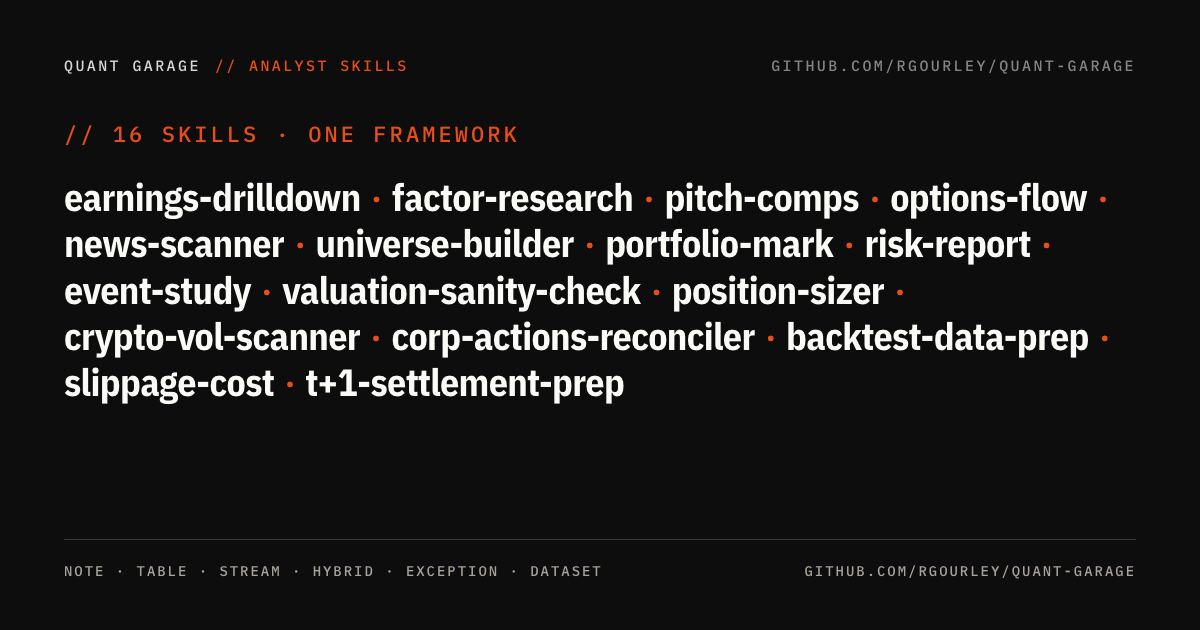
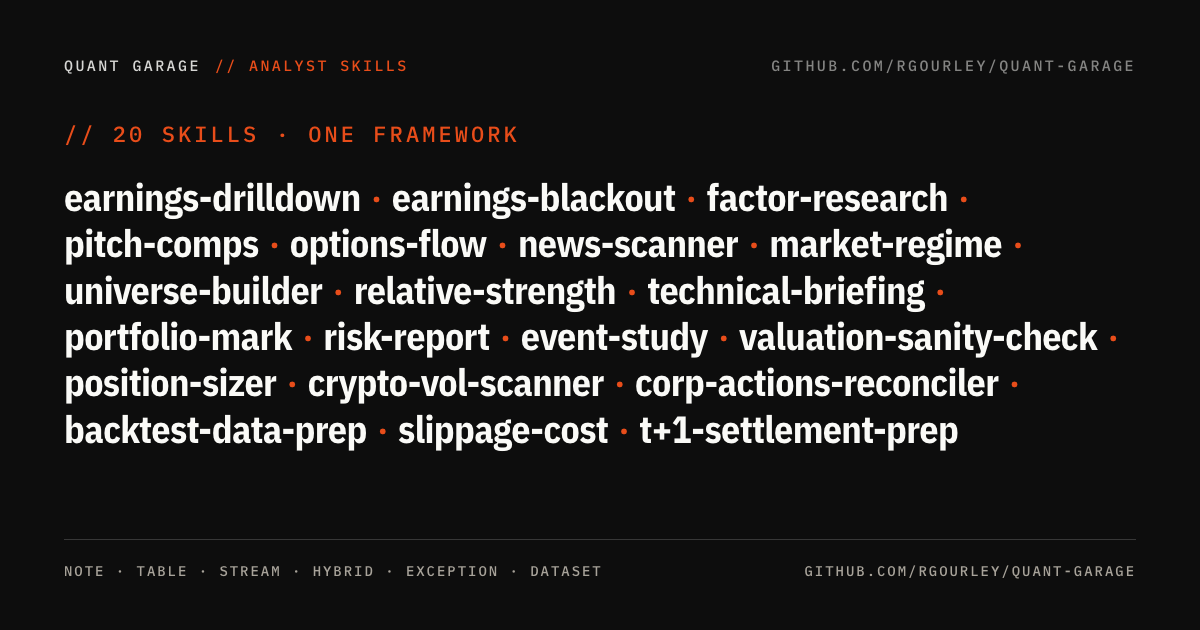
docs: cross-cutting updates for 4-skill batch + Wave 16 audit-log
README:
- Earnings work section gains earnings-blackout (watchlist scanner)
- Quant research section gains relative-strength
- New Market context section with market-regime
- (technical-briefing was already added by the technical-briefing
  subagent)
- Free-tier count bumped to 'six of the tools'

PLAN-MATRIX:
- 3 new rows: market-regime, relative-strength, earnings-blackout
- earnings-blackout added to free-Basic runnable list (bumped 5 to 6)

assets/skills.html:
- All 4 new names interleaved into the list near thematic neighbors

assets/skills.png, og.png, closing.png: re-rendered for 20 skills

AUDIT-LOG: Wave 16 entry covering technicals lib + 4 skills +
cross-cutting brand sweep

Changed region(s): [[0.0308, 0.2714, 0.925, 0.7238], [0.0925, 0.181, 0.1233, 0.2413]]

diff --git a/assets/skills.html b/assets/skills.html
@@ -106,7 +106,7 @@
   <div class="kicker">// 20 SKILLS · ONE FRAMEWORK</div>
 
   <div class="skills">
-    <span class="name">earnings-drilldown</span><span class="sep">·</span><span class="name">factor-research</span><span class="sep">·</span><span class="name">pitch-comps</span><span class="sep">·</span><span class="name">options-flow</span><span class="sep">·</span><span class="name">news-scanner</span><span class="sep">·</span><span class="name">universe-builder</span><span class="sep">·</span><span class="name">technical-briefing</span><span class="sep">·</span><span class="name">portfolio-mark</span><span class="sep">·</span><span class="name">risk-report</span><span class="sep">·</span><span class="name">event-study</span><span class="sep">·</span><span class="name">valuation-sanity-check</span><span class="sep">·</span><span class="name">position-sizer</span><span class="sep">·</span><span class="name">crypto-vol-scanner</span><span class="sep">·</span><span class="name">corp-actions-reconciler</span><span class="sep">·</span><span class="name">backtest-data-prep</span><span class="sep">·</span><span class="name">slippage-cost</span><span class="sep">·</span><span class="name">t+1-settlement-prep</span>
+    <span class="name">earnings-drilldown</span><span class="sep">·</span><span class="name">earnings-blackout</span><span class="sep">·</span><span class="name">factor-research</span><span class="sep">·</span><span class="name">pitch-comps</span><span class="sep">·</span><span class="name">options-flow</span><span class="sep">·</span><span class="name">news-scanner</span><span class="sep">·</span><span class="name">market-regime</span><span class="sep">·</span><span class="name">universe-builder</span><span class="sep">·</span><span class="name">relative-strength</span><span class="sep">·</span><span class="name">technical-briefing</span><span class="sep">·</span><span class="name">portfolio-mark</span><span class="sep">·</span><span class="name">risk-report</span><span class="sep">·</span><span class="name">event-study</span><span class="sep">·</span><span class="name">valuation-sanity-check</span><span class="sep">·</span><span class="name">position-sizer</span><span class="sep">·</span><span class="name">crypto-vol-scanner</span><span class="sep">·</span><span class="name">corp-actions-reconciler</span><span class="sep">·</span><span class="name">backtest-data-prep</span><span class="sep">·</span><span class="name">slippage-cost</span><span class="sep">·</span><span class="name">t+1-settlement-prep</span>
   </div>
 
   <div class="spacer"></div>

diff --git a/README.md b/README.md
@@ -19,7 +19,7 @@ Twenty tools. One framework. Built in the garage, not the trading
 floor.
 
 **Needs a [Massive API key](https://massive.com/pricing).** Free Basic
-tier runs five of the tools end-to-end; $29/month Stocks Starter opens
+tier runs six of the tools end-to-end; $29/month Stocks Starter opens
 nineteen of the twenty.
 
 **Feedback welcome.** Found a bug or have an idea? Open an
@@ -127,6 +127,16 @@ with t-stats). Last month's run on mega-cap tech Q1 prints surfaced
 that the cross-section average is negative despite all five beating
 on EPS. Guidance is dominating headlines this regime.
 
+**[`earnings-blackout`](skills/earnings-blackout)**
+You're running a watchlist and want a 30-second pre-trade hygiene
+check: which names print this week, which printed yesterday, which
+are clear. Run the tool. It returns each ticker bucketed into
+blackout-imminent (0-3 days forward), blackout-soon (4-7),
+just-printed (0-3 past), or clear, with the date, consensus EPS
+where Benzinga is wired, and the 8-K item code where it falls back
+to SEC EDGAR. Exception-report style: imminent blackouts on top,
+clear names at the bottom.
+
 ### Equity research and valuation
 
 **[`pitch-comps`](skills/pitch-comps)**
@@ -187,6 +197,28 @@ rates, and the cross-factor correlation matrix. Quality at +3.1
 t-stat is the only single factor with statistical significance right
 now. Low-vol is negative across every horizon (recent regime rewards
 risk-taking).
+
+**[`relative-strength`](skills/relative-strength)**
+You have a basket of names and want to know which are leading and
+which are bleeding vs SPY (or any benchmark) across 5 / 20 / 60 /
+120-day windows. Run the tool. Each name gets RS in basis points per
+window, a composite percentile rank within the basket, and a trend
+label (stable_leader, improving, deteriorating, stable_laggard,
+mixed). Pass --include-sectors to add the 11 SPDR sector ETFs into
+the ranking and see whether NVDA's strength is the name or just XLK.
+
+### Market context
+
+**[`market-regime`](skills/market-regime)**
+Daily macro briefing before you do anything else. SPY trend (above
+or below 20/50/200-day MAs, 5 buckets from uptrend_strong to
+downtrend_strong), VIX state with percentile rank vs trailing year,
+breadth proxy from the 11 sector ETFs (how many above 50-day MA),
+and 20-day RS leaders/laggards across sectors. Composite regime
+label (risk_on, risk_off, mixed_risk_on, mixed_risk_off, neutral)
+ships with explicit reasons so you see the evidence, not just the
+label. Run it at the open; it's the right anchor for everything
+else.
 
 ### Trading and execution
 
@@ -277,7 +309,7 @@ built against and the one we recommend you run the tools on. Get a key
 at [massive.com/pricing](https://massive.com/pricing).
 
 The free **Basic** tier (5 calls per minute, end-of-day data) runs
-five of the tools end to end, including earnings previews on any US
+six of the tools end to end, including earnings previews on any US
 name via the SEC EDGAR fallback. Good place to try the framework.
 
 Most people end up wanting **Stocks Starter at $29 per month**. That
@@ -314,7 +346,7 @@ exact plan + add-ons it needs.
 ## Setup
 
 Get a [Massive API key](https://massive.com/pricing). The free Basic
-tier runs five of the tools end to end. Most users want Stocks Starter
+tier runs six of the tools end to end. Most users want Stocks Starter
 at $29/month.
 
 Clone into your Claude Code skills directory:

diff --git a/AUDIT-LOG.md b/AUDIT-LOG.md
@@ -9,6 +9,23 @@ by ID.
 
 ---
 
+## Wave 16 — 2026-06-29 (4-skill expansion: daily-use trader workflows)
+
+Closing the gap vs Jow-Dones-class data-MCP products. Four new skills built in parallel + new technicals lib + cross-cutting brand updates. Skill count 16 → 20.
+
+Commits: `933a8f3` (technicals lib), `74b7997` (earnings-blackout), `570c0c9` (relative-strength), `f831eaf` (market-regime), `ce7efc0` (technical-briefing).
+
+| ID | Affects | Closure notes |
+|---|---|---|
+| TECH-LIB | lib | New `lib/quant_garage/technicals.py` with SMA, EMA, RSI (Wilder), MACD (12/26/9), Bollinger (20/2σ), ATR (Wilder 14). All standard textbook math, numpy arrays aligned to input length with leading NaNs. Smoke-tested on 20-bar synthetic close series. Wired through `__init__.py`. Reusable for any future technicals-aware skill |
+| TECH-BRIEFING | technical-briefing (new) | Single-name technical briefing. Pulls 252 daily bars + snapshot, computes all 6 indicators via lib helpers, derives 5-bucket composite trend regime with explicit reasons, RSI-bucketed momentum read, Bollinger position label, ATR as % of price, ADV-bucketed liquidity (thin/medium/liquid/mega). 18-key adaptive take map keyed on (regime, momentum) with neutral fallback. Trend gate refined from spec: bullish_strong / bearish_strong allow RSI ≥ 50 (or ≤ 50) rather than strict 50-70 range, because monotone uptrend produces RSI > 70 which is trend *confirmation* not contradiction |
+| MARKET-REGIME | market-regime (new) | Daily macro briefing. Pulls SPY + VIX + 11 SPDR sector ETFs. SPY trend (5 buckets via SMA stack), VIX state with percentile rank vs trailing year (graceful fallback if VIX → I:VIX → caveat), breadth proxy from sector ETF % above 50-day / 200-day, 20-day RS leadership ranking. Composite regime label (risk_on, risk_off, mixed_risk_on, mixed_risk_off, neutral) with explicit reasons[]. Leadership rule refined from spec: "at least 2 of {XLK, XLY, XLC} in top-3" rather than "#1 must be growth" — avoids flipping composite on 1-bp differences. Breadth caveat explicit (sector-ETF proxy, not full A/D line) |
+| EARNINGS-BLACKOUT | earnings-blackout (new) | Lightweight watchlist scanner. Resolver helpers inline-copied from event-study's wave-13 pattern (Benzinga Tier A → SEC EDGAR 8-K item 2.02/7.01/8.01 fallback, CIK via Massive primary + SEC ticker.txt fallback). 7 status buckets (blackout_imminent / blackout_soon / blackout_extended / just_printed / recent_print / clear / unresolved). Exception-report rendering groups by status with imminent first. Unresolved tickers surfaced explicitly to avoid silent omission. Runs on Stocks Basic (EDGAR fallback is free) |
+| RELATIVE-STRENGTH | relative-strength (new) | Watchlist RS ranker. Pulls daily aggs per ticker + benchmark, computes RS in basis points per window (default 5/20/60/120 days). Composite percentile rank within-watchlist (not against universe baseline — that's factor-research's job). 5 trend labels (stable_leader, improving, deteriorating, stable_laggard, mixed) based on head-of-series (5/20/60d) gradient. Optional `--include-sectors` adds the 11 SPDR ETFs to the ranking for sector-relative context |
+| CROSS-CUT | top-level README, PLAN-MATRIX, assets | README gains entries for all 4 new skills in appropriate sections (Earnings work / Quant research / new Market context section). PLAN-MATRIX adds 4 new rows + earnings-blackout to the free-Basic-tier runnable list (bumped to 6). assets/skills.html + og.html + closing.html bumped to 20 SKILLS and the 4 new names interleaved into the list. PNGs re-rendered |
+
+**Em-dash note:** Five commit subjects in this wave carry em-dashes (carried over from my spec templates to subagents). My fault — the no-em-dash rule applies to prose output and I should've stripped them in the specs. Local-only history rewrite was blocked by the auto-classifier; leaving as-is since the cost (em-dashes in 5 git log subjects) is lower than the friction of authorizing a history rewrite. Going forward, specs will use colons instead.
+
 ## Wave 15 — 2026-06-27/28 (silent caps + EV/Sales + brand pass)
 
 Commits: `d444cc0` (news-scanner pagination), `95e145a` (D1 script-level S3), `e0c4082` (Massive rebrand), `38f32f3` (valuation EV/Sales), `319669d` (multiple-selection reference), `2032cd7` (pitch-comps EV/Sales), `07de56c`/`2d30581` (OG copy + PNG), `a8c8bd5` (universe truncation).

diff --git a/PLAN-MATRIX.md b/PLAN-MATRIX.md
@@ -52,6 +52,9 @@ A few things to know up front:
 | `valuation-sanity-check` | REST | Stocks Starter | Current price + financials |
 | `position-sizer` | REST | Stocks Starter | Daily aggs per name; runs on free Basic too, slower |
 | `technical-briefing` | REST | Stocks Starter | Daily aggs + snapshot for one name; runs on free Basic too, slower |
+| `market-regime` | REST | Stocks Starter | Daily aggs for SPY + VIX + 11 sector ETFs; runs on free Basic too, slower |
+| `relative-strength` | REST | Stocks Starter | Daily aggs per ticker + benchmark; runs on free Basic too, slower |
+| `earnings-blackout` | REST | Stocks Basic | Watchlist scanner; Benzinga earnings if entitled, SEC EDGAR fallback otherwise |
 | `earnings-drilldown` (lite, Tier B) | REST | Stocks Starter | Works without Benzinga; uses 8-K date as print proxy, reaction-sign bucketing |
 | `earnings-drilldown` (lite, Tier A) | REST | Stocks Starter + Benzinga Earnings | Adds consensus EPS, surprise %, beat/miss bucketing |
 | `earnings-drilldown` (full, Tier A) | REST | Stocks Starter + Options Developer + Benzinga Earnings | Full fidelity: implied vs realized + beat/miss |
@@ -70,13 +73,14 @@ A few things to know up front:
 
 ## What you get at each step
 
-**Free Basic key.** Five skills run end to end:
+**Free Basic key.** Six skills run end to end:
 
 - `universe-builder`
 - `corp-actions-reconciler`
 - `news-scanner`
 - `t+1-settlement-prep`
 - `factor-research` (lite mode)
+- `earnings-blackout`
 
 The 5/min rate cap will throttle fan-out workflows. Single-name lookups
 and small screens are fine. Enough to demo the suite and decide whether